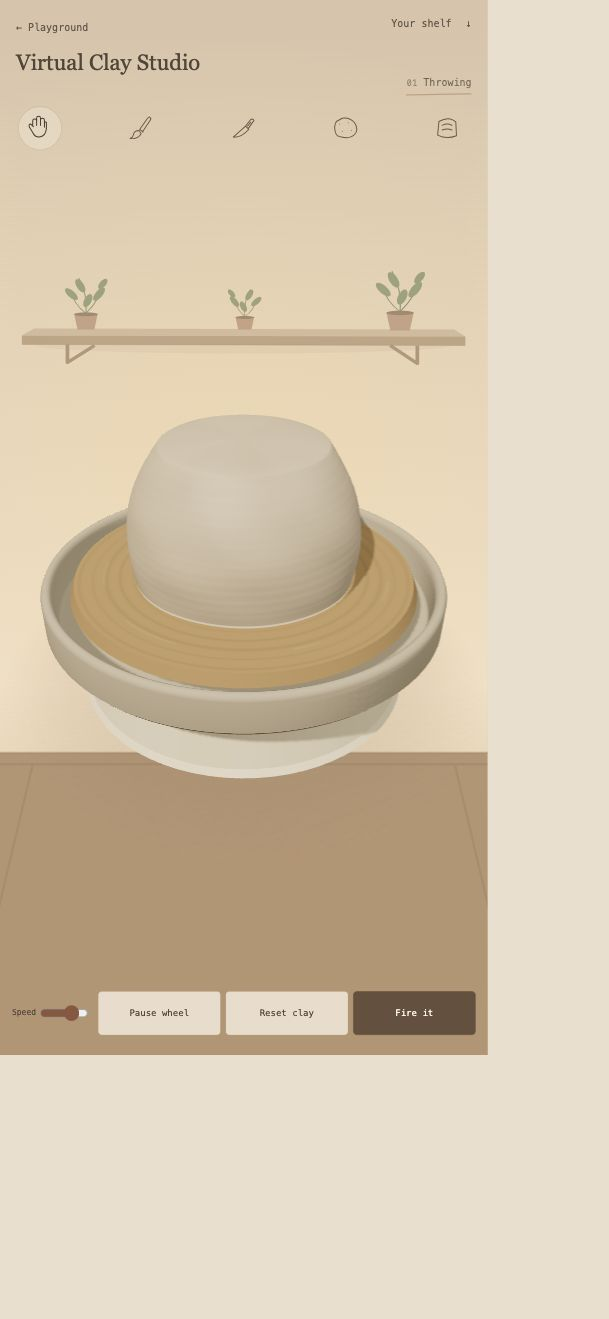
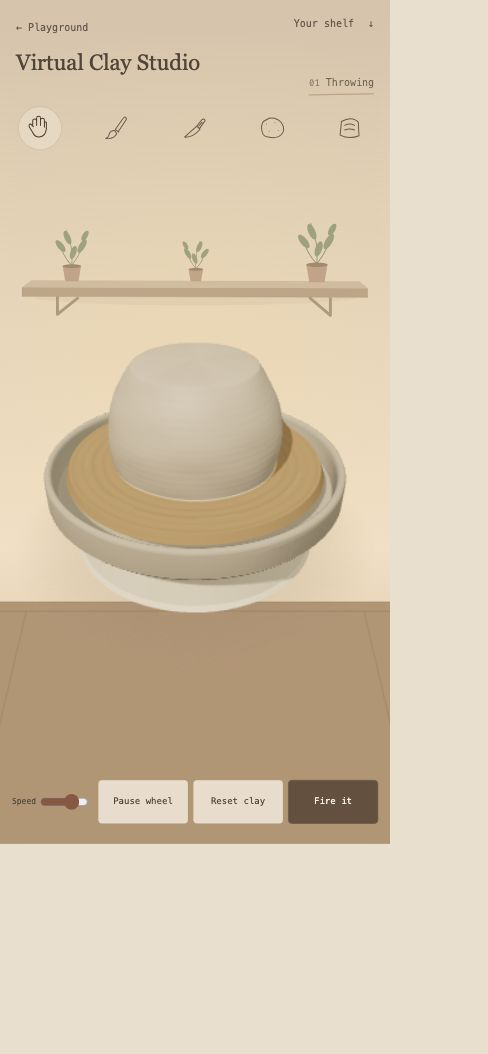
Enlarge mobile pottery and move tools below the wheel

diff --git a/index.html b/index.html
@@ -13,7 +13,7 @@
 
 
 
-<link rel="stylesheet" href="./interface.css?v=mobile-20261002b" /></head>
+<link rel="stylesheet" href="./interface.css?v=mobile-20261002c" /></head>
   <body>
     <main class="studio" id="workspace">
 <header class="studio-header"><div><a class="study-back" href="https://saleney.github.io/">← Playground</a><h1>Virtual Clay Studio</h1></div>
@@ -62,6 +62,6 @@
 
 </main>
 <section class="collection" id="your-shelf" aria-labelledby="collection-heading"><div class="collection-heading"><h2 id="collection-heading">Your shelf</h2><a href="#workspace">Back to the wheel ↑</a></div><p class="collection-empty" data-collection-empty>Your finished pieces will be kept here.</p><div class="collection-grid" data-collection-grid></div><p class="collection-footnote">Kept in this browser.</p></section>
-    <svg class="local-ink-note" viewBox="0 0 200 44" fill="none" stroke="currentColor" stroke-width="1.5" stroke-linecap="round" aria-hidden="true"><path d="M3 12q9-8 5 14m-6-9 10-1m8-5-2 17m2-8q6-10 11-4m2-3q0 17 9 10m4-11-8 27m25-21q-9-9-12 5t12-4v11m9-16-2 18m2-10q7-12 10-4l2 14m20-23-1 20m-4-11h10m9-6q-11 1-8 13t10-5q1-9-2-8m10-2-1 17m2-9q8-12 12-4l1 14m7-16q-7 7 1 11t5-11m12-4-1 19m-4-10h11"/><path d="M6 37q61 4 132-1"/></svg><script type="module" src="./atelier.js?v=mobile-20261002b"></script><script type="module" src="./interface.js?v=mobile-20261002b"></script>
+    <svg class="local-ink-note" viewBox="0 0 200 44" fill="none" stroke="currentColor" stroke-width="1.5" stroke-linecap="round" aria-hidden="true"><path d="M3 12q9-8 5 14m-6-9 10-1m8-5-2 17m2-8q6-10 11-4m2-3q0 17 9 10m4-11-8 27m25-21q-9-9-12 5t12-4v11m9-16-2 18m2-10q7-12 10-4l2 14m20-23-1 20m-4-11h10m9-6q-11 1-8 13t10-5q1-9-2-8m10-2-1 17m2-9q8-12 12-4l1 14m7-16q-7 7 1 11t5-11m12-4-1 19m-4-10h11"/><path d="M6 37q61 4 132-1"/></svg><script type="module" src="./atelier.js?v=mobile-20261002c"></script><script type="module" src="./interface.js?v=mobile-20261002c"></script>
   </body>
 </html>

diff --git a/atelier.js b/atelier.js
@@ -227,7 +227,7 @@ function applyHeldGlaze(){if(state.phase!=='glaze'||!state.glaze.pointer)return;
 function enterGlaze(){if(state.phase!=='fired')return;state.phase='glaze';setWheelSpeed(.75);surface.classList.add('is-glazing');selectTool('hand');stageNote.textContent='touch the turning ceramic';caption.textContent='Choose a glaze, then touch the ceramic. Hold for a band or drift for a spiral.';status.textContent='Celadon glaze is ready. Touch the outside, rim, or inside.';}
 // Keep the pottery at least as prominent as the pre-pan interface; the pan
 // adds surrounding hardware, never a reason to shrink the user's piece.
-function resize(){const r=stage.getBoundingClientRect();renderer.setSize(r.width,r.height,false);camera.aspect=r.width/r.height;camera.fov=matchMedia('(max-width:620px)').matches?58:(camera.aspect<1.4?44:34);camera.updateProjectionMatrix();renderFinishedShelves();}
+function resize(){const r=stage.getBoundingClientRect();renderer.setSize(r.width,r.height,false);camera.aspect=r.width/r.height;camera.fov=matchMedia('(max-width:620px)').matches?47:(camera.aspect<1.4?44:34);camera.updateProjectionMatrix();renderFinishedShelves();}
 function setCamera(){const radius=7.15;camera.position.set(Math.sin(state.yaw)*radius,2.68+state.pitch*.2,Math.cos(state.yaw)*radius);camera.lookAt(0,-1.15,0);}
 function render(time){const dt=Math.min((time-lastTime)/1000,.05);lastTime=time;const reduced=matchMedia('(prefers-reduced-motion:reduce)').matches;const acceleration=reduced?1.35:2.5;state.wheel.speed=THREE.MathUtils.damp(state.wheel.speed,state.wheel.target,acceleration,dt);state.wheel.angle+=state.wheel.speed*dt;wheelGroup.rotation.y=state.wheel.angle;setCamera();applyHeldGlaze();renderer.render(scene,camera);requestAnimationFrame(render);}
 function getHitAt(clientX,clientY){

diff --git a/interface.css b/interface.css
@@ -112,3 +112,17 @@
  .bottom-interface .controls{position:static;justify-content:flex-start;gap:12px}
  .bottom-interface .shelf-link{position:static;transform:none;flex-shrink:0}
 }
+
+/* Mobile: the ceramic is the focus; tools sit beside the working controls. */
+@media(max-width:620px){
+ .three-stage{inset:100px -18px 145px}
+ .mobile-studio-shelf{top:15%;height:100px;opacity:.48}
+ .tool-row{top:auto;bottom:76px;left:24px;right:24px;gap:8px}
+ .slip-colors{top:auto;bottom:128px}
+ .controls{left:12px;right:12px;bottom:20px;gap:6px}
+ .speed-control{flex:1.6 1 110px;min-width:100px;gap:5px;font-size:8px}
+ .speed-control input{width:auto;min-width:60px;flex:1}
+ .making-actions{flex:2.6 1 210px;width:auto;gap:5px;min-width:0}
+ .making-actions .action{flex:1 1 0;min-width:0;padding:7px 3px;font-size:8px}
+ .phase-note,.work-surface.is-glazing .phase-note{top:96px}
+}

diff --git a/docs/mobile-studio-release-2026-10-02/deployment.md b/docs/mobile-studio-release-2026-10-02/deployment.md
@@ -1,0 +1,10 @@
+# Published studio — October 2, 2026
+
+Live: https://saleney.github.io/virtual-clay-studio/
+
+Final release commit: `0468562593a6d348036537b68c2e96ce047ce7ef`.
+GitHub Pages run: `36977502098` — successful.
+
+Speed, Pause wheel, Reset clay, Fire it, and Your shelf share one compact, softly transparent desktop row. Mobile retains its compact controls and larger clay framing.
+
+Verified live: current stylesheet version, rendered clay canvas, and aligned desktop controls. `live-desktop.png` records the published result. `after-mobile.png` records the local production preview at 390 × 844; this is a browser preview, not a physical phone test.

diff --git a/docs/mobile-studio-release-2026-10-02/mobile-focus.md b/docs/mobile-studio-release-2026-10-02/mobile-focus.md
@@ -1,0 +1,8 @@
+# Mobile focus refinement — local preview
+
+The mobile ceramic and splash pan are enlarged and centered. The complete pan remains visible at 390 × 844. Tools now sit at the bottom, above the action row; Brush reveals slip colors above the tools. Speed is 125 px wide; each action is about 75 px wide with 44 px minimum height. No horizontal overflow was found. Desktop framing remains unchanged.
+
+Preview: http://127.0.0.1:8107/working-folios/clay-interface/index.html?qa-mobile
+Screenshot: mobile-focus.png
+
+Release prepared for publication on October 2, 2026. Desktop framing is unchanged.
